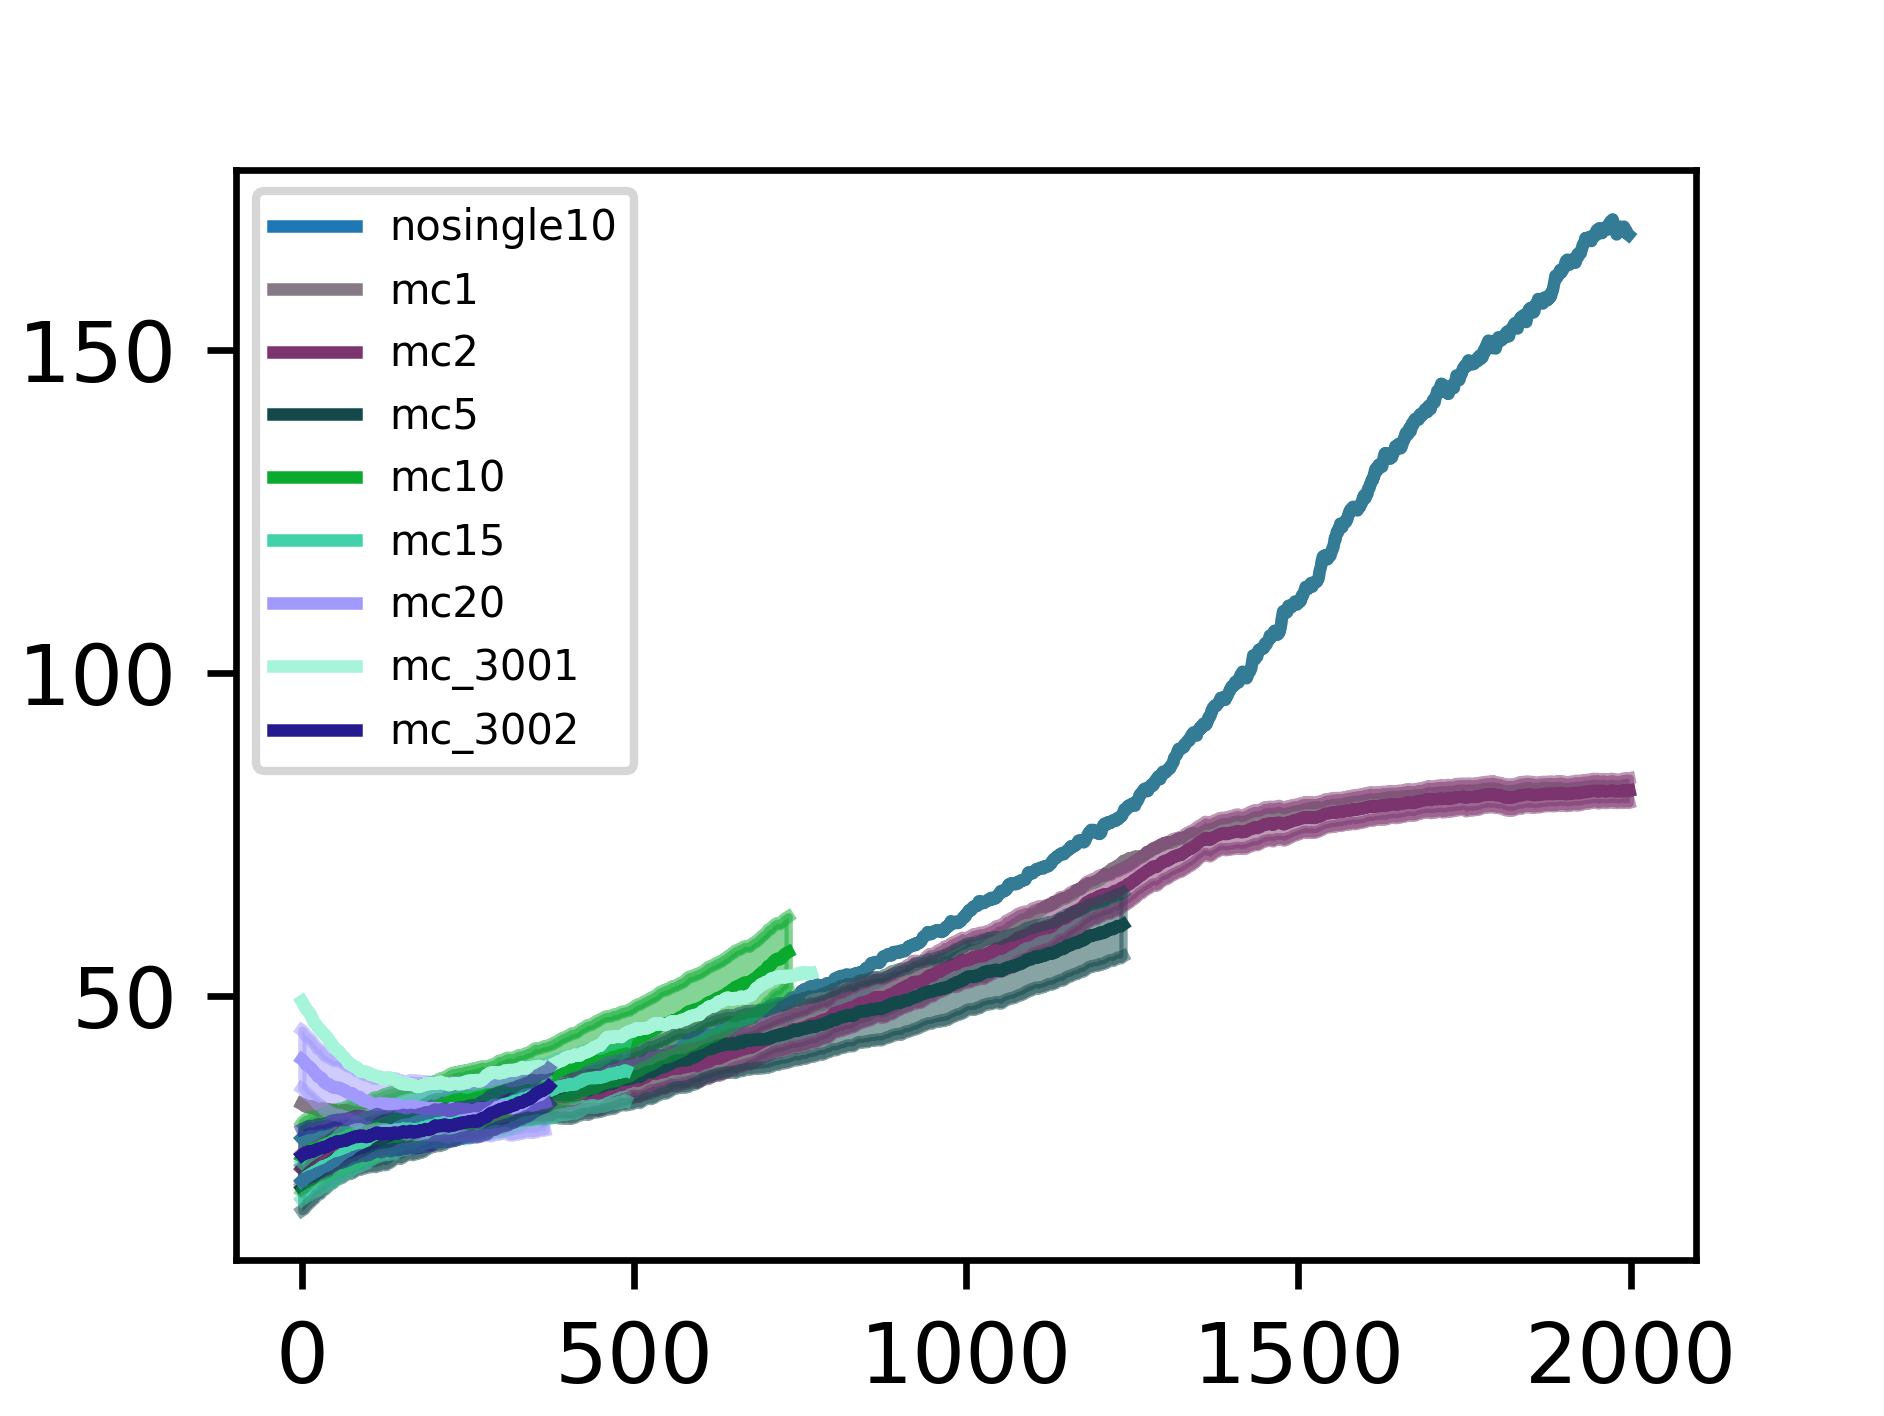
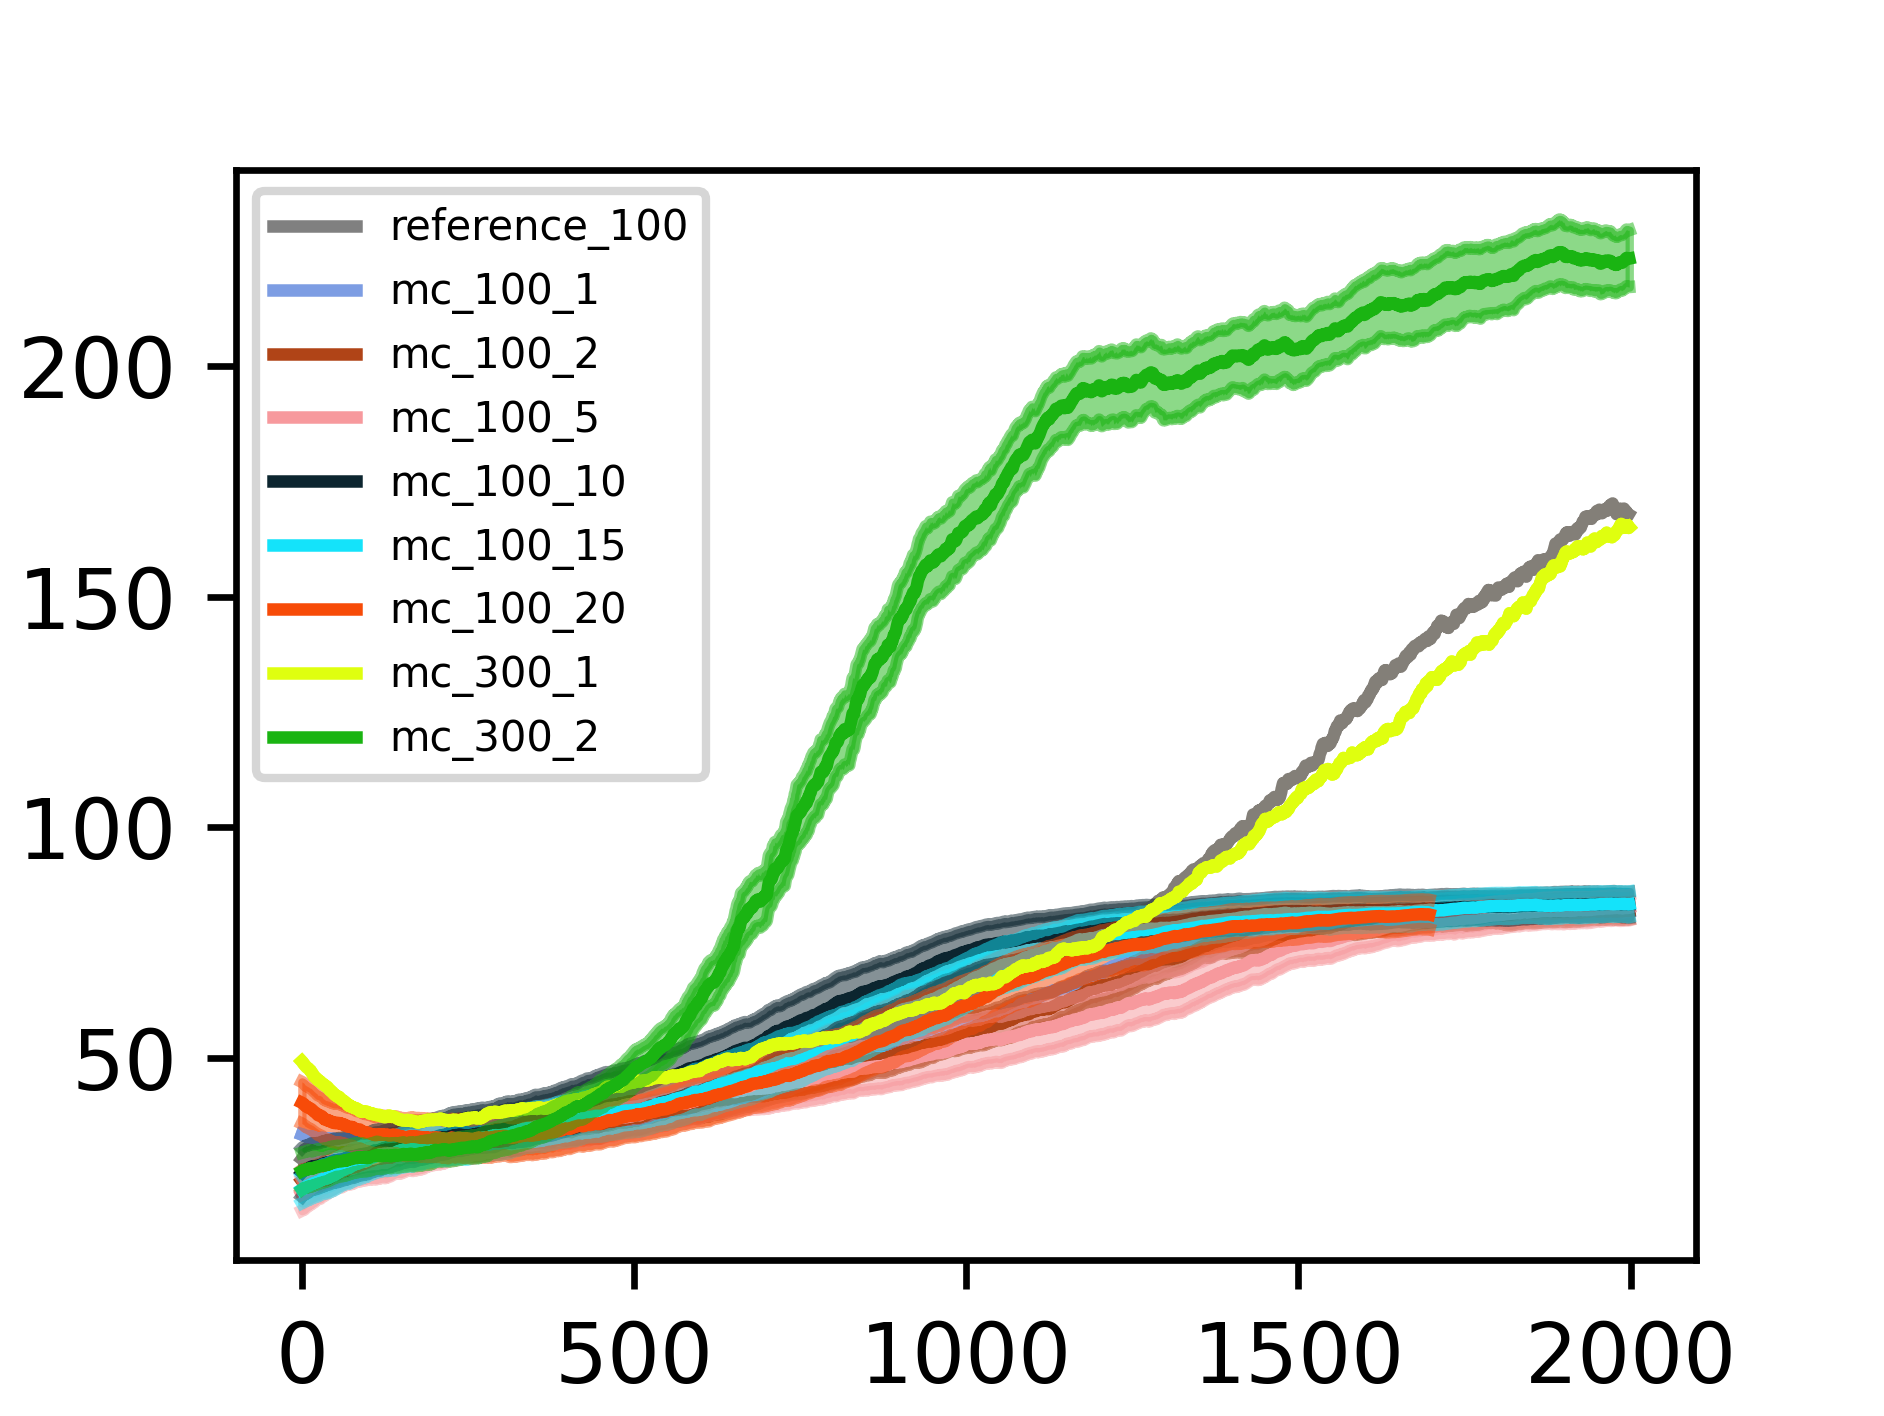
new

diff --git a/plot_test.py b/plot_test.py
@@ -108,7 +108,7 @@ if __name__ =="__main__":
     
     
         x_vals = list(range(len(epic_mean)))
-        ax.plot(x_vals, epic_mean, label = "nosingle{}".format(e))
+        ax.plot(x_vals, epic_mean, color='grey',label = "reference_300")
         ax.plot(x_vals, epic_mean+epic_std,  alpha=0.1)
         ax.plot(x_vals, epic_mean-epic_std,  alpha=0.1)
         ax.fill_between(x_vals, y1=epic_mean-epic_std, y2=epic_mean+epic_std, alpha=0.1)
@@ -129,7 +129,7 @@ if __name__ =="__main__":
     
     
         x_vals = list(range(epic_mean_std.shape[0]))
-        ax.plot(x_vals, epic_mean_std[:,0], color = colors[m], label = "mc{}".format(m))
+        ax.plot(x_vals, epic_mean_std[:,0], color = colors[m], label = "mc_100_{}".format(m))
         ax.plot(x_vals, epic_mean_std[:,0]+epic_mean_std[:,1],color = colors[m], alpha=0.5)
         ax.plot(x_vals, epic_mean_std[:,0]-epic_mean_std[:,1], color = colors[m],alpha=0.5)
         ax.fill_between(x_vals, y1=epic_mean_std[:,0]-epic_mean_std[:,1], \
@@ -138,7 +138,7 @@ if __name__ =="__main__":
     
     
     colors = {}
-    ms = [1,2]
+    ms = [2,5,10,15,20,50]
     for i in ms:
         r = random.uniform(0, 1)
         g = random.uniform(0, 1)
@@ -146,14 +146,14 @@ if __name__ =="__main__":
         colors[i] = (r,g,b)
     
     for m in ms:
-        fname = './results/montecarlo/new1/multimodal/EPIC_CartPole-v0_vpg_s2000_n10_every25_size32_c0.5_tau0.5_goal10.0_steps300_mass5.0_mc{}'.format(m)
+        fname = './results/montecarlo/new2/multimodal/EPIC_CartPole-v0_vpg_s2000_n10_every25_size32_c0.5_tau0.5_goal10.0_steps300_mass5.0_mc{}'.format(m)
         epic_mean_std = read_rewards_multi_mc(filename=fname,
                                              samples=2000,
                                              runs=1)
     
     
         x_vals = list(range(epic_mean_std.shape[0]))
-        ax.plot(x_vals, epic_mean_std[:,0], color = colors[m], label = "mc_300{}".format(m))
+        ax.plot(x_vals, epic_mean_std[:,0], color = colors[m], label = "mc_300_{}".format(m))
         ax.plot(x_vals, epic_mean_std[:,0]+epic_mean_std[:,1],color = colors[m], alpha=0.5)
         ax.plot(x_vals, epic_mean_std[:,0]-epic_mean_std[:,1], color = colors[m],alpha=0.5)
         ax.fill_between(x_vals, y1=epic_mean_std[:,0]-epic_mean_std[:,1], \
@@ -164,4 +164,4 @@ if __name__ =="__main__":
     # plt.yticks([-15, -10, -5, 0])
     # plt.tick_params(labelbottom=False, labelleft=False)
     # plt.show()
-    plt.savefig('./results/montecarlo/new/multimodal/step300_epic25_episodes_nosingle_mc_compare')
+    plt.savefig('./results/montecarlo/new2/multimodal/step300_epic25_episodes_nosingle_mc_compare')

diff --git a/algos/agents/gaussian_vpg_mc.py b/algos/agents/gaussian_vpg_mc.py
@@ -381,7 +381,7 @@ class GaussianVPGMC(nn.Module):
                     v[key]+=policy_m_para_after[key] - policy_m_para_before[key]
             
         for key, meta_para in zip(v, self.new_default_policy.parameters()):
-            meta_para.data.copy_(meta_para.data + 1/self.m*v[key])
+            meta_para.data.copy_(meta_para.data + 1*v[key])
        
 
     def update_default_and_prior_policy(self):
